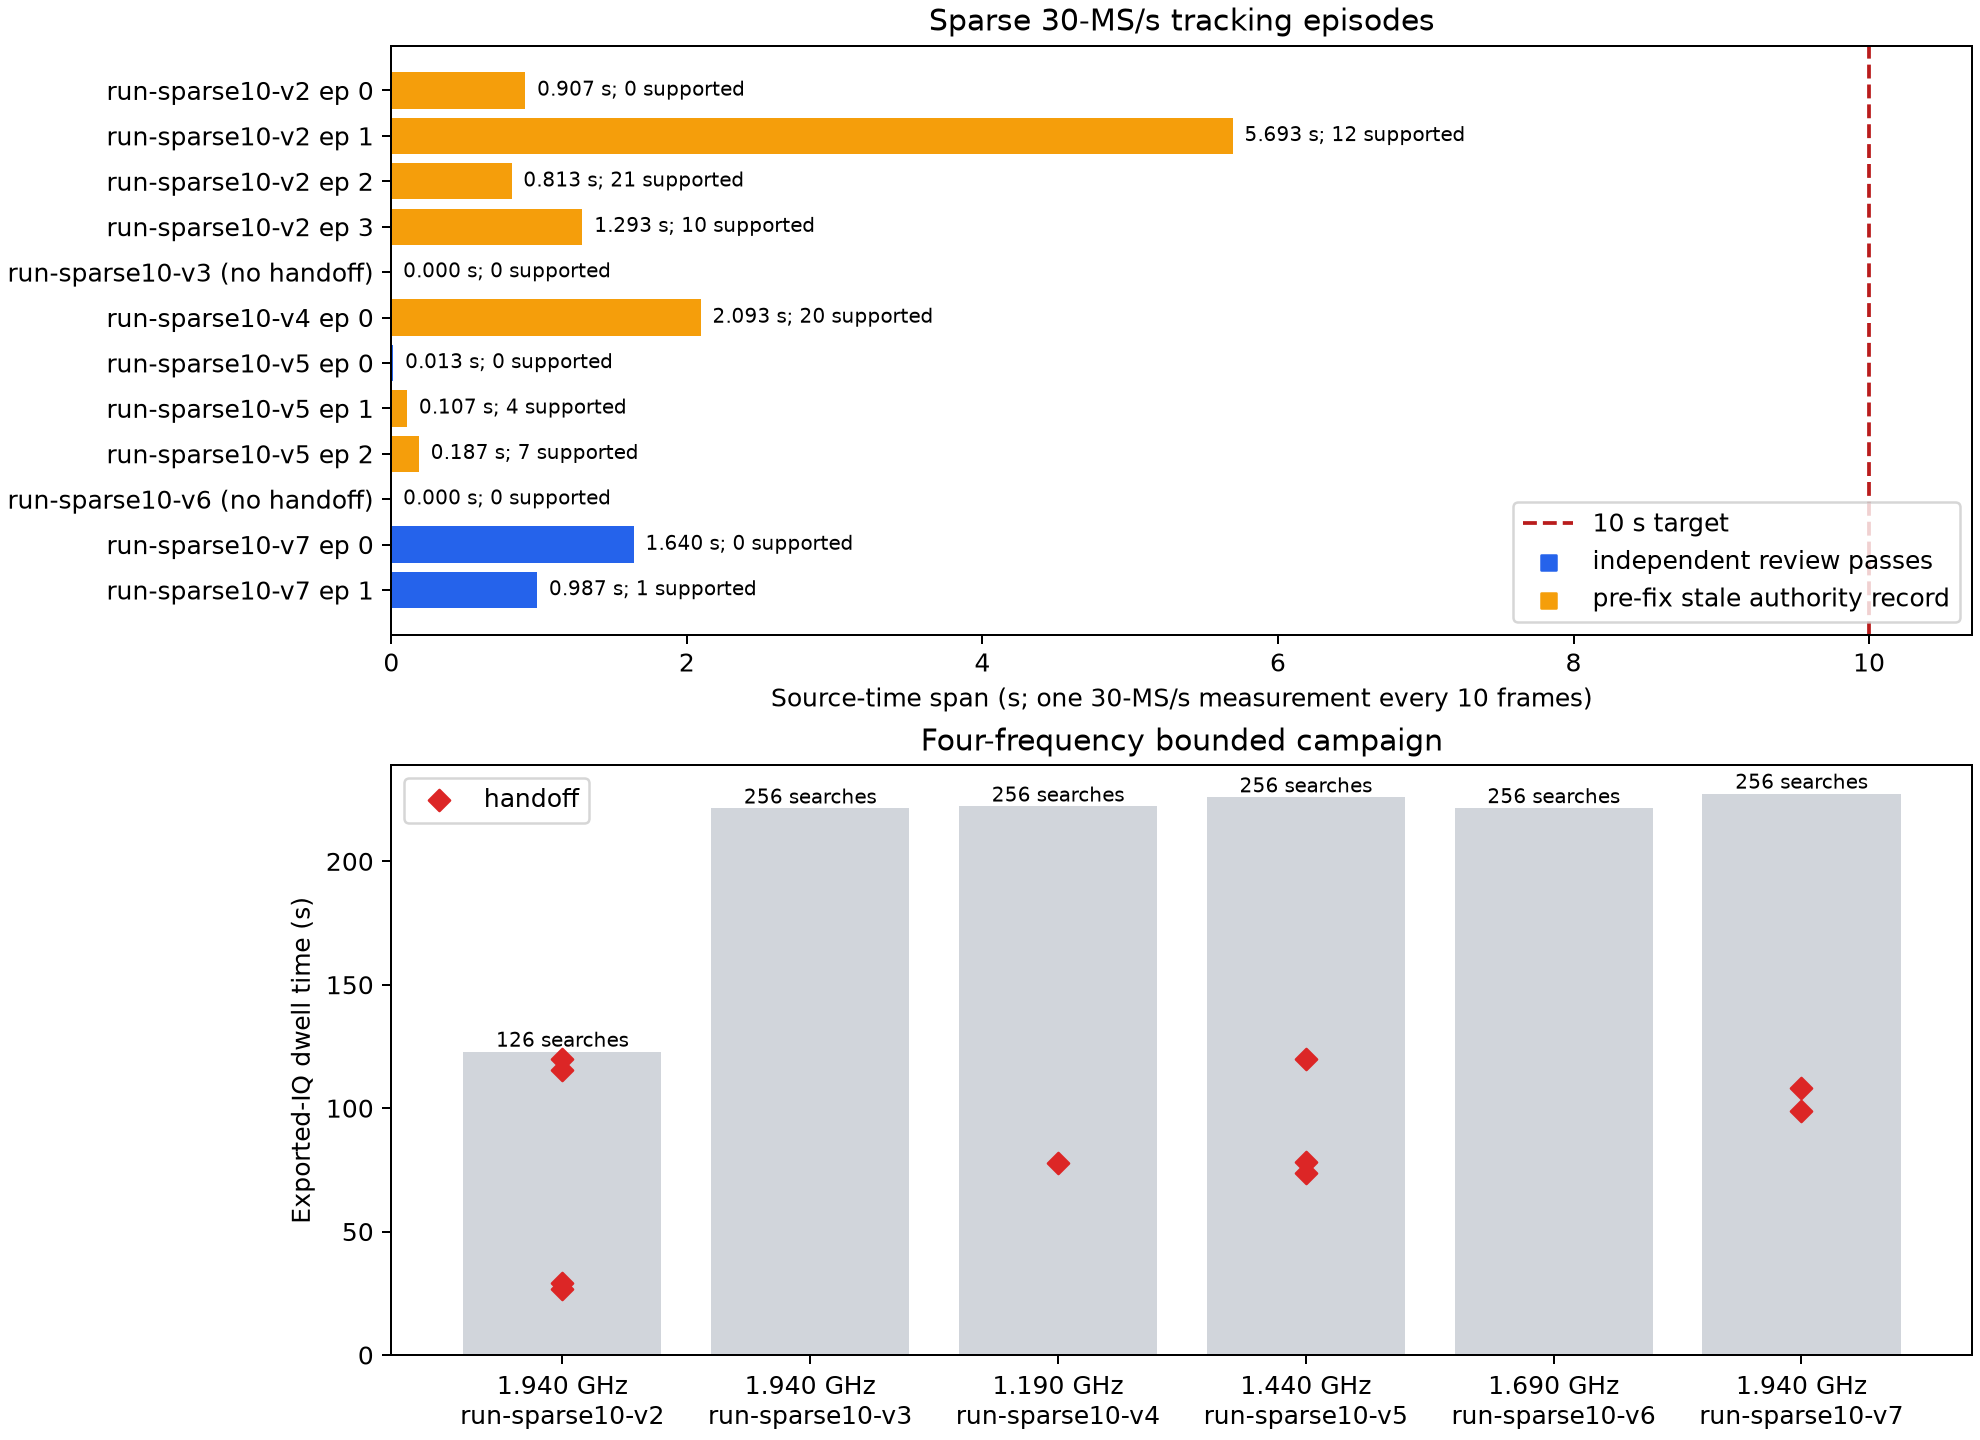
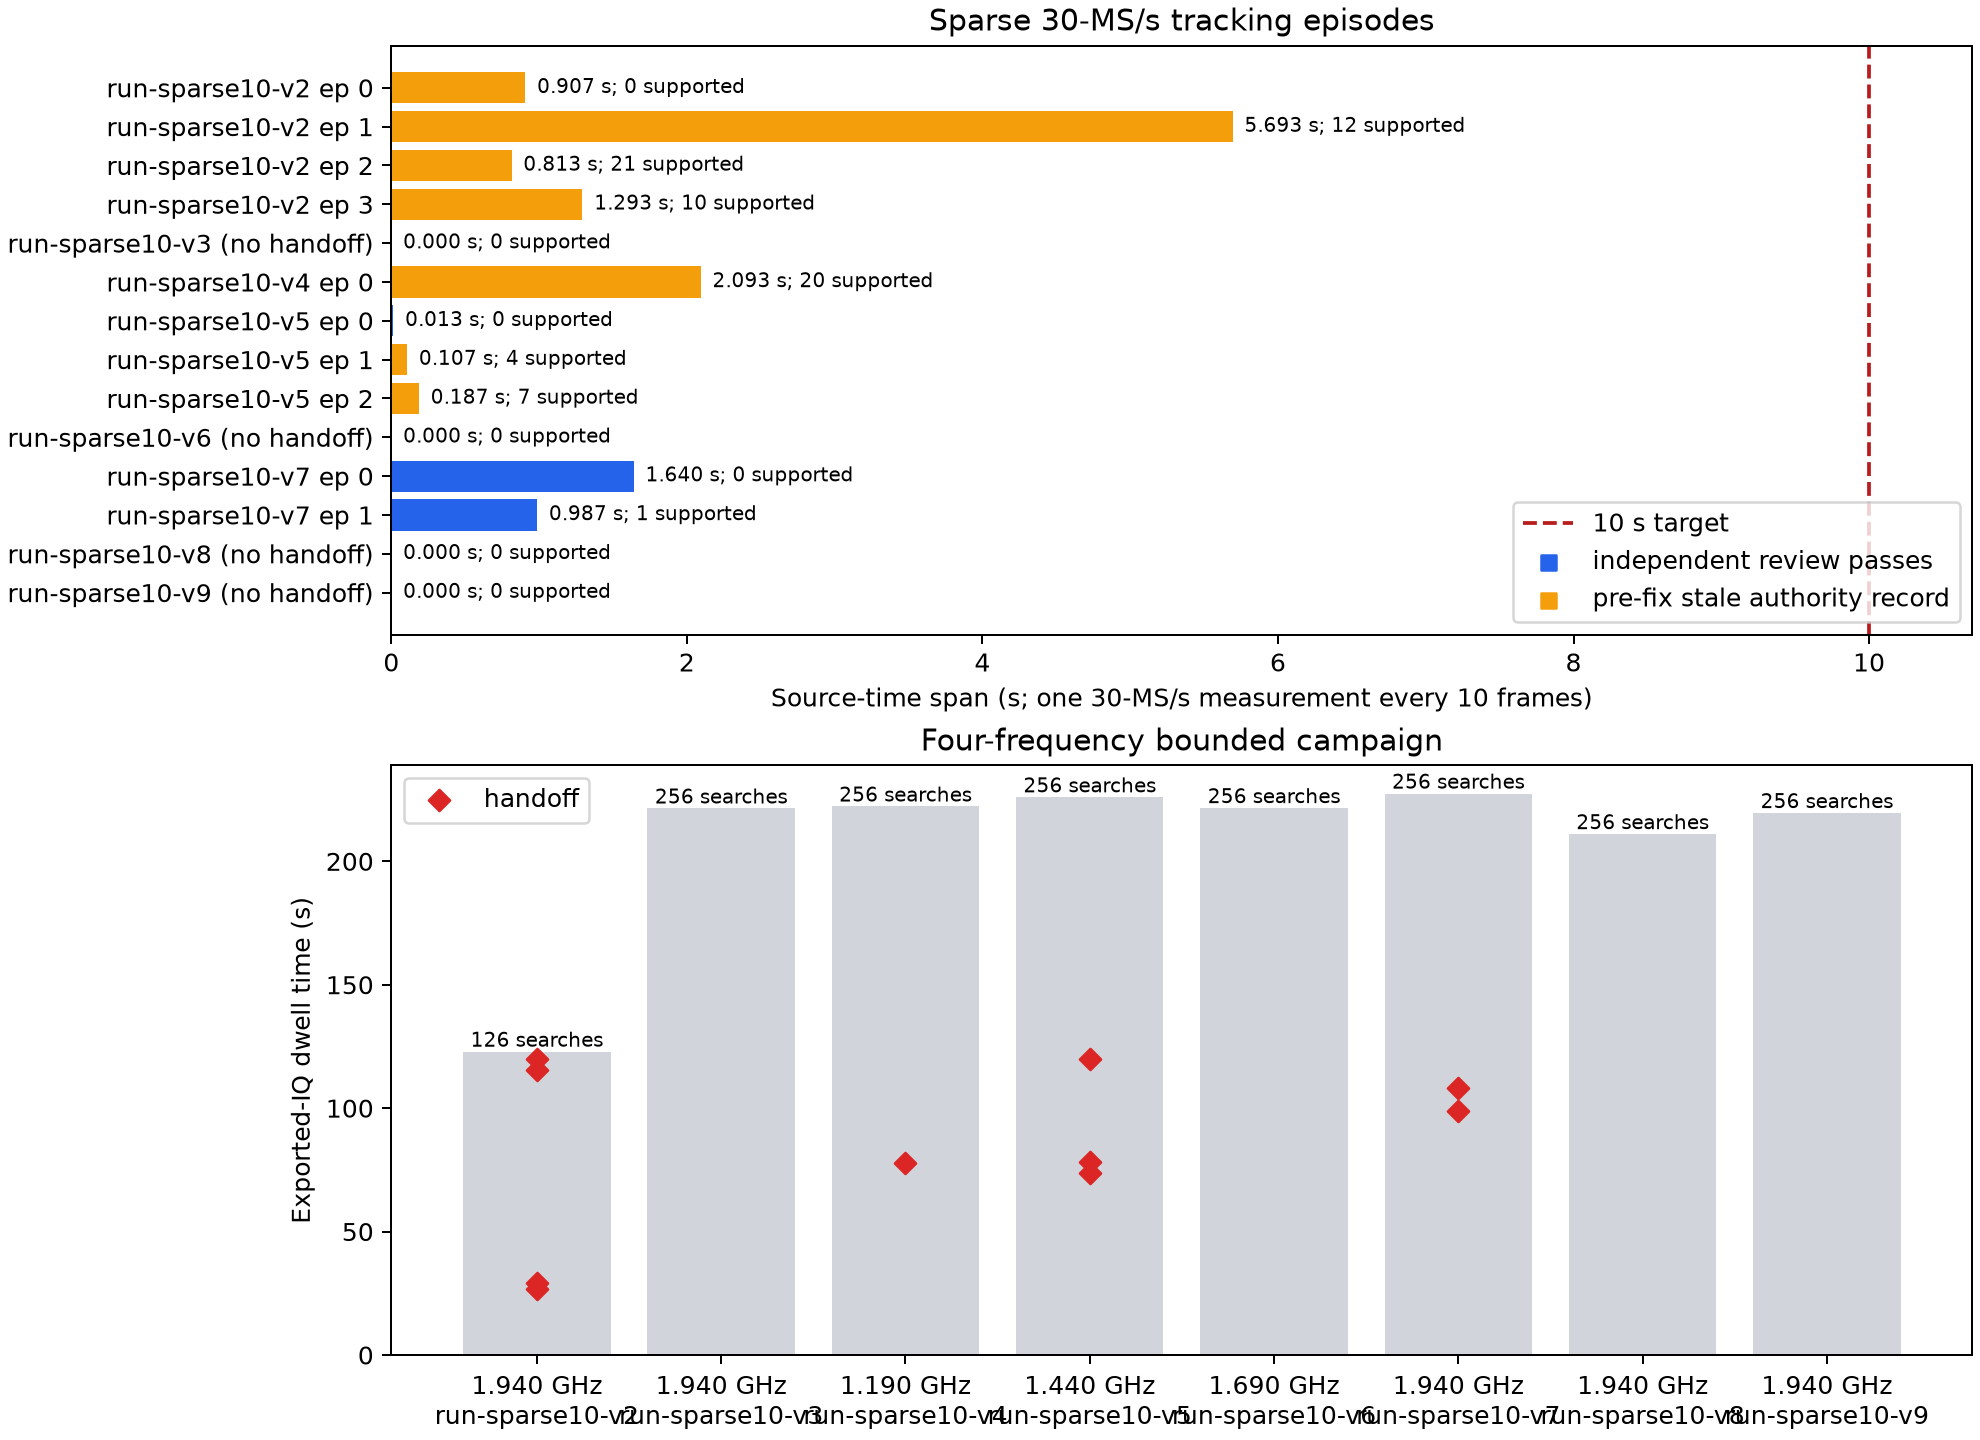
Complete bounded sparse tracking campaign

Changed region(s): [[0.2157, 0.5312, 0.9859, 1.0], [0.0, 0.0312, 0.7394, 0.4375], [0.5854, 0.5625, 0.6162, 0.9375]]

diff --git a/reports/2026_09_15_radio20_30ms_authority_tracking/analyze_sparse.py b/reports/2026_09_15_radio20_30ms_authority_tracking/analyze_sparse.py
@@ -33,7 +33,7 @@ def main() -> None:
         manifest[name] = sha
 
     result = {"schema": "radio20-30ms-sparse10-review/v1", "runs": []}
-    for number in range(2, 8):
+    for number in range(2, 10):
         name = f"run-sparse10-v{number}"
         root = args.evidence / name
         for path in root.iterdir():

diff --git a/reports/2026_09_15_radio20_30ms_authority_tracking.md b/reports/2026_09_15_radio20_30ms_authority_tracking.md
@@ -32,7 +32,7 @@ native samples; the scheduled measurement rate is **75/s**. The 751st result is
 exactly 10.000 seconds after the first result in source time. The existing dense
 profiles and their persisted GLT1 bodies are unchanged.
 
-Six physical sparse-cadence dwells covered all four reviewed upper LOs. They
+Eight physical sparse-cadence dwells covered all four reviewed upper LOs. They
 produced ten handoffs and 1,040 scheduled measurements. The longest operational
 episode contained 428 measurements spanning **5.693 seconds**. Independent
 review exposed that the first five dwells sometimes retained a newer coarse
@@ -81,6 +81,11 @@ model margin while remaining below the ARM port capacity.
 | sparse-v5 | 1.4403125 GHz | 225.942 s | 256 | 3 | 15 / 0.187 s | One 2-result journal passes; later journals expose the stale refresh |
 | sparse-v6 | 1.6903125 GHz | 221.557 s | 256 | 0 | none | Clean negative dwell |
 | sparse-v7 | 1.9403125 GHz | 227.443 s | 256 | 2 | 124 / 1.640 s | **Both journals pass independent review** |
+| sparse-v8 | 1.9403125 GHz | 211.019 s | 256 | 0 | none | Clean negative dwell after authority fix |
+| sparse-v9 | 1.9403125 GHz | 219.559 s | 256 | 0 | none | Clean negative dwell after authority fix |
+
+The eight dwells total 1,672.040 seconds (27.867 minutes) of exported-IQ time,
+inside the 30-minute collection cap.
 
 All sparse terminals were clean acquisition loss rather than controller
 deadline. The strongest v2 episode scheduled and drained 428 results without
@@ -147,7 +152,7 @@ contains `SHA256SUMS`, and the SSD originals remain in place.
 
 The sparse runs were likewise written to NVMe first and copied to
 `/srv/bulk/leo/glrt-deployment-20260909/radio20-iq-tracking-20260912/sparse10-30ms-20260915-v1`.
-All 82 SSD and RAID files match by SHA-256. The RAID copy is 516 MB and contains
+All 106 SSD and RAID files match by SHA-256. The RAID copy is 684 MB and contains
 its reproducible `SHA256SUMS`; SSD originals remain in place.
 
 The acceptance gate remains:
@@ -164,7 +169,7 @@ records zero qualifying ten-second episodes, so acceptance is **not passed**.
 
 The next stable step is to use the existing 2.5-MS/s scanner as the trigger for
 the corrected sparse binary instead of running more blind five-minute dwells.
-The four-frequency campaign produced only ten handoffs in 1,406 searches, and
+The four-frequency campaign produced only ten handoffs in 1,918 searches, and
 its longest interval remained below six seconds. A scanner-triggered visit can
 start the 30-MS/s controller near the beginning of an active interval and
 preserve the full remaining source span. The native diagnostic gates should
